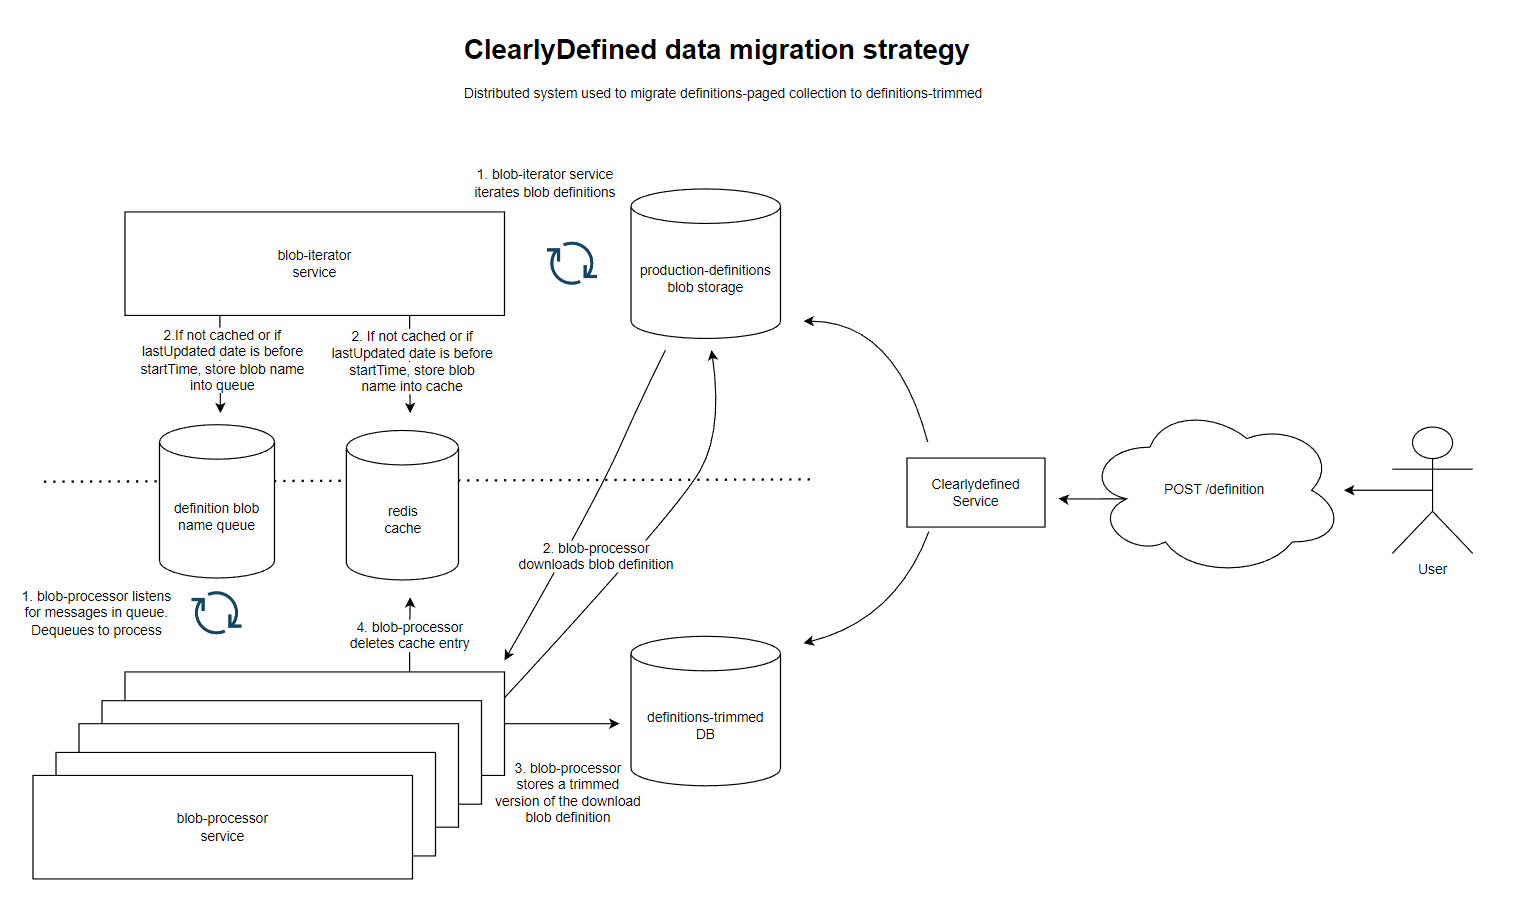
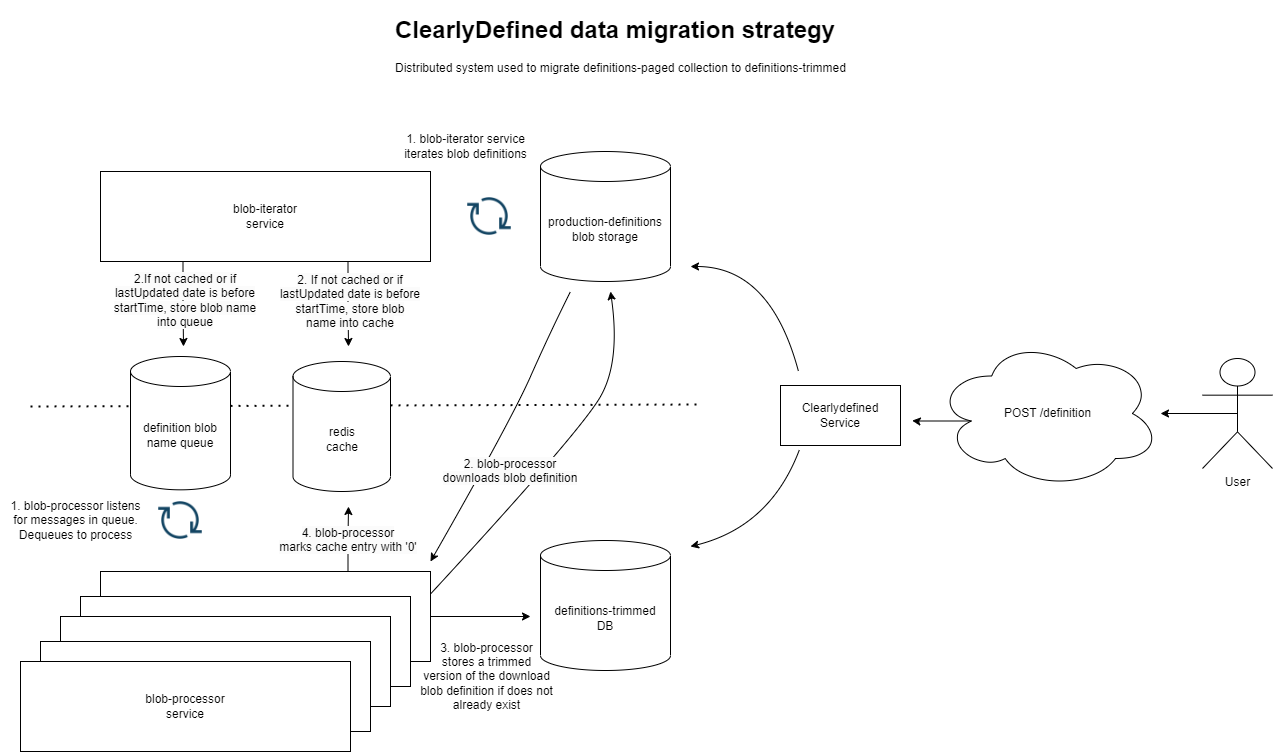
Addressing feedback

diff --git a/definitions-trimmed-migrate/src/services/migration-service/MigrationService.ts b/definitions-trimmed-migrate/src/services/migration-service/MigrationService.ts
@@ -9,6 +9,8 @@ import { RedisService } from '../redis-service/RedisService';
 import { ComponentCoordinates, Definition, DefinitionBlob, MigrationServiceProcess } from './types';
 
 export class MigrationService {
+    private blobsMigrated = 0;
+
     constructor(
         private options: AppConfig,
         private mongoService: MongoService,
@@ -41,8 +43,6 @@ export class MigrationService {
     }
 
     private async processQueuedBlobs() {
-        let blobsMigrated = 0;
-
         this.logService.log(
             'MigrationService.processQueuedBlobs',
             'Starting to process queued blobs'
@@ -84,11 +84,6 @@ export class MigrationService {
                     }
 
                     await this.markProcessed(blobName, message);
-
-                    this.logService.log(
-                        'MigrationService.processQueuedBlobs',
-                        `Processed ${blobName}. ${++blobsMigrated} total blobs have been processed`
-                    );
                 }
             } else {
                 this.logService.log(
@@ -104,6 +99,11 @@ export class MigrationService {
     private async markProcessed(blobName: string, message: DequeuedMessageItem) {
         await this.redisService.set(blobName, 0);
         await this.azureStorageService.deleteMessage(message);
+
+        this.logService.log(
+            'MigrationService.processQueuedBlobs',
+            `Processed ${blobName}. ${++this.blobsMigrated} total blobs have been processed`
+        );
     }
 
     private async downloadBlob(blobName: string): Promise<DefinitionBlob> {
@@ -115,11 +115,9 @@ export class MigrationService {
     }
 
     private async getDefinitionById(_id: string) {
-        const document = await this.mongoService.findOne(this.options.mongoOptions.collectionName, {
+        return await this.mongoService.findOne(this.options.mongoOptions.collectionName, {
             _id,
         });
-
-        return document;
     }
 
     private async storeDefinition(_id: string, definitionBlob: DefinitionBlob) {

diff --git a/definitions-trimmed-migrate/src/services/azure-storage-service/AzureStorageService.ts b/definitions-trimmed-migrate/src/services/azure-storage-service/AzureStorageService.ts
@@ -39,9 +39,12 @@ export class AzureStorageService {
                 const { name, properties } = blob;
                 const { lastModified } = properties;
 
-                if (lastModified < startTime && !(await this.redisService.get(name))) {
+                const cachedBlobName = await this.redisService.get(name);
+
+                if (lastModified < startTime && cachedBlobName === null) {
                     await this.queueMessage(name);
                     await this.redisService.set(name, 1);
+
                     queued++;
                 }
 
@@ -71,7 +74,8 @@ export class AzureStorageService {
 
     private async queueMessage(message: string) {
         try {
-            await this.queueClient.sendMessage(message);
+            // 900 seconds = 15 min timeout
+            await this.queueClient.sendMessage(message, { visibilityTimeout: 900 });
         } catch (err) {
             this.logService.error('AzureStorageService.queueMessage', err, {
                 exception: err as Error,
